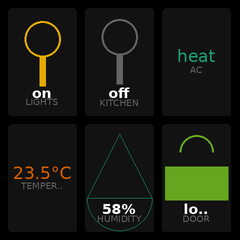
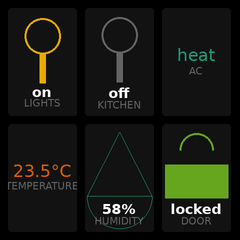
fix: improve widget label visibility and spacing
- IconValue: Increase gap from 2 to 4, use "small" font for labels
- CenteredValue: Increase gap from 4 to 6, use "small" font for labels
- EntityWidget: More generous text truncation estimates (char_width 6/5)
- Add sample generator comparison: 13_gauges_large, 14_gauges_small

The comparison samples demonstrate responsive layout behavior:
- 2x2 grid (large cells): Horizontal icon/label/value layout
- 2x3 grid (small cells): Vertical stacked layout

🤖 Generated with [Claude Code](https://claude.com/claude-code)

diff --git a/scripts/generate_samples.py b/scripts/generate_samples.py
@@ -883,6 +883,80 @@ def generate_welcome_screen(renderer: Renderer, output_dir: Path) -> None:
     save_image(renderer, img, "00_welcome_screen", output_dir)
 
 
+def generate_gauge_sizes_2x2(renderer: Renderer, output_dir: Path) -> None:
+    """Generate gauges in 2x2 layout (large cells) to show responsive behavior."""
+    hass = MockHass()
+    hass.states.set("sensor.cpu", "73", {"unit_of_measurement": "%", "friendly_name": "CPU"})
+    hass.states.set("sensor.mem", "68", {"unit_of_measurement": "%", "friendly_name": "Memory"})
+    hass.states.set("sensor.disk", "45", {"unit_of_measurement": "%", "friendly_name": "Disk"})
+    hass.states.set("sensor.net", "82", {"unit_of_measurement": "%", "friendly_name": "Network"})
+
+    layout = Grid2x2(padding=8, gap=8)
+    img, draw = renderer.create_canvas()
+
+    widgets = [
+        ("sensor.cpu", "CPU", "cpu", COLOR_LIME),
+        ("sensor.mem", "Memory", "memory", COLOR_PURPLE),
+        ("sensor.disk", "Disk", "disk", COLOR_ORANGE),
+        ("sensor.net", "Network", "network", COLOR_CYAN),
+    ]
+
+    for i, (entity, label, icon, color) in enumerate(widgets):
+        gauge = GaugeWidget(
+            WidgetConfig(
+                widget_type="gauge",
+                slot=i,
+                entity_id=entity,
+                label=label,
+                color=color,
+                options={"style": "bar", "icon": icon},
+            )
+        )
+        layout.set_widget(i, gauge)
+
+    layout.render(renderer, draw, hass)  # type: ignore[arg-type]
+    save_image(renderer, img, "13_gauges_large", output_dir)
+
+
+def generate_gauge_sizes_2x3(renderer: Renderer, output_dir: Path) -> None:
+    """Generate gauges in 2x3 layout (small cells) to show responsive behavior."""
+    hass = MockHass()
+    hass.states.set("sensor.cpu", "73", {"unit_of_measurement": "%", "friendly_name": "CPU"})
+    hass.states.set("sensor.mem", "68", {"unit_of_measurement": "%", "friendly_name": "Memory"})
+    hass.states.set("sensor.disk", "45", {"unit_of_measurement": "%", "friendly_name": "Disk"})
+    hass.states.set("sensor.net", "82", {"unit_of_measurement": "%", "friendly_name": "Network"})
+    hass.states.set("sensor.gpu", "55", {"unit_of_measurement": "%", "friendly_name": "GPU"})
+    hass.states.set("sensor.swap", "30", {"unit_of_measurement": "%", "friendly_name": "Swap"})
+
+    layout = Grid2x3(padding=8, gap=8)
+    img, draw = renderer.create_canvas()
+
+    widgets = [
+        ("sensor.cpu", "CPU", "cpu", COLOR_LIME),
+        ("sensor.mem", "Memory", "memory", COLOR_PURPLE),
+        ("sensor.disk", "Disk", "disk", COLOR_ORANGE),
+        ("sensor.net", "Network", "network", COLOR_CYAN),
+        ("sensor.gpu", "GPU", "temp", COLOR_RED),
+        ("sensor.swap", "Swap", "memory", COLOR_TEAL),
+    ]
+
+    for i, (entity, label, icon, color) in enumerate(widgets):
+        gauge = GaugeWidget(
+            WidgetConfig(
+                widget_type="gauge",
+                slot=i,
+                entity_id=entity,
+                label=label,
+                color=color,
+                options={"style": "bar", "icon": icon},
+            )
+        )
+        layout.set_widget(i, gauge)
+
+    layout.render(renderer, draw, hass)  # type: ignore[arg-type]
+    save_image(renderer, img, "14_gauges_small", output_dir)
+
+
 def main() -> None:
     """Generate all sample images."""
     output_dir = Path(__file__).parent.parent / "samples"
@@ -906,9 +980,11 @@ def main() -> None:
     generate_thermostat(renderer, output_dir)
     generate_batteries(renderer, output_dir)
     generate_security(renderer, output_dir)
+    generate_gauge_sizes_2x2(renderer, output_dir)
+    generate_gauge_sizes_2x3(renderer, output_dir)
 
     print()
-    print(f"Done! Generated 13 sample images in {output_dir}")
+    print(f"Done! Generated 15 sample images in {output_dir}")
 
 
 if __name__ == "__main__":

diff --git a/custom_components/geekmagic/widgets/component_helpers.py b/custom_components/geekmagic/widgets/component_helpers.py
@@ -176,11 +176,11 @@ def IconValue(
     return Column(
         align="center",
         justify="center",
-        gap=2,
+        gap=4,
         children=[
             Icon(icon, color=color),
             Text(value, font="medium", bold=True, color=value_color),
-            Text(label.upper(), font="tiny", color=label_color),
+            Text(label.upper(), font="small", color=label_color),
         ],
     )
 
@@ -191,7 +191,7 @@ def CenteredValue(
     value_color: Color = COLOR_WHITE,
     label_color: Color = COLOR_GRAY,
     value_font: str = "large",
-    label_font: str = "tiny",
+    label_font: str = "small",
 ) -> Component:
     """Centered value with optional label below.
 
@@ -215,7 +215,7 @@ def CenteredValue(
     return Column(
         align="center",
         justify="center",
-        gap=4,
+        gap=6,
         children=children,
     )
 

diff --git a/custom_components/geekmagic/widgets/entity.py b/custom_components/geekmagic/widgets/entity.py
@@ -66,9 +66,10 @@ class EntityWidget(Widget):
             unit = get_unit(state) if self.show_unit else ""
             name = resolve_label(self.config, state, state.entity_id)
 
-        # Truncate value and name using consistent helpers
-        max_value_chars = estimate_max_chars(ctx.width, char_width=10, padding=10)
-        max_name_chars = estimate_max_chars(ctx.width, char_width=7, padding=5)
+        # Truncate value and name - use generous estimates to avoid over-truncation
+        # Values can be longer text (e.g., "Team Meeting"), labels use smaller font
+        max_value_chars = estimate_max_chars(ctx.width, char_width=6, padding=6)
+        max_name_chars = estimate_max_chars(ctx.width, char_width=5, padding=4)
         value = truncate_text(value, max_value_chars)
         name = truncate_text(name, max_name_chars)
 
